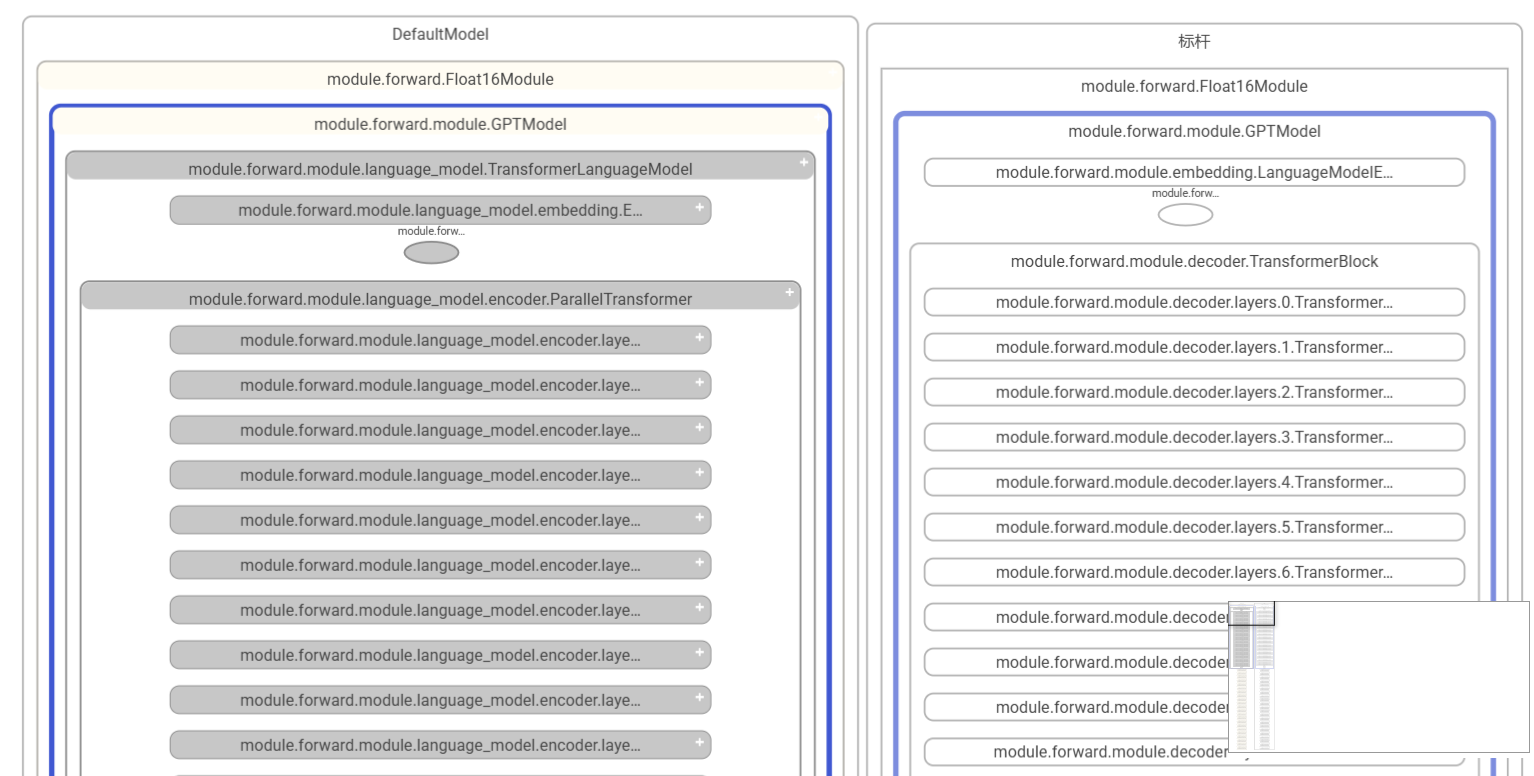
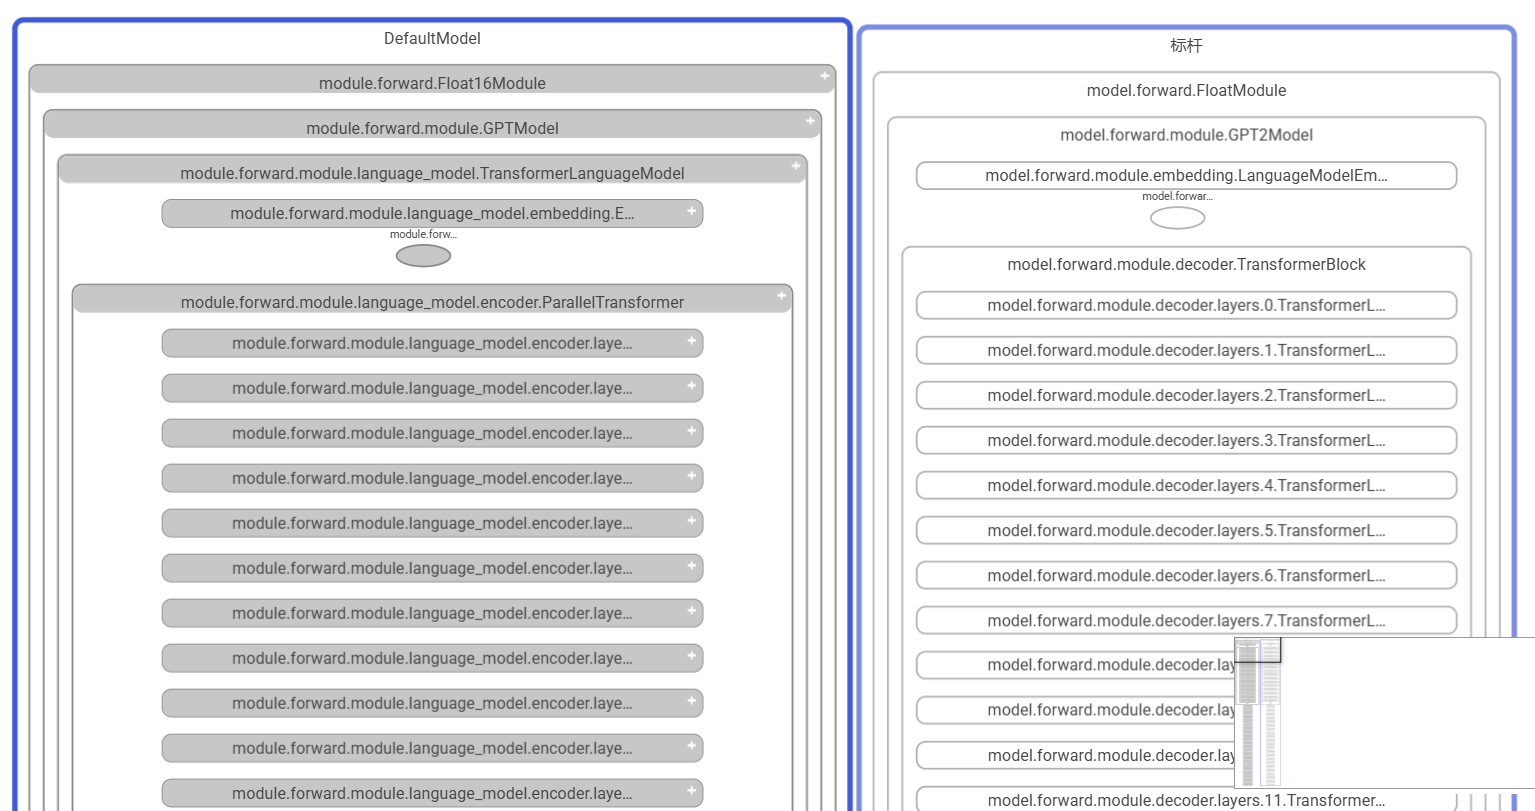
分级可视化layer mapping说明补充

diff --git a/debug/accuracy_tools/msprobe/docs/visualization/layer_mapping_example.md b/debug/accuracy_tools/msprobe/docs/visualization/layer_mapping_example.md
@@ -15,12 +15,16 @@
 
 **{Module}.{module_name}.{class_name}.{forward/backward}.{调用次数}**
 
+**layer mapping主要是针对module_name的映射**
+
+#### 2.1.1 命名示例
+
 - **Module.module.Float16Module.forward.0** -----> Module{**Module**}.module{**module_name**}.Float16Module{**class_name**}.forward.0{**调用次数**}
 - **Module.module.module.GPTModel.forward.0** -----> Module{**Module**}.module.module{**module_name**}.GPTModel{**class_name**}.forward.0{**调用次数**}
 - **Module.module.module.language_model.TransformerLanguageModel.forward.0** -----> Module{**Module**}.module.module.language_model{**module_name**}.TransformerLanguageModel{**class_name**}.forward.0{**调用次数**}
 - **Module.module.module.language_model.embedding.Embedding.forward.0** -----> Module{**Module**}.module.module.language_model.embedding{**module_name**}.Embedding{**class_name**}.forward.0{**调用次数**}
 
-可以看到，module_name随着模型层级的深入在变长，embedding层module_name拼接了它的上层language_model、上上层module和顶层module。
+可以看到，module_name随着模型层级的深入在变长，**embedding层module_name拼接了它的上层language_model、上上层module和顶层module**。
 
 ## 3.示例
 
@@ -36,18 +40,37 @@
 
 分析可知，节点匹配关系如下：
 
-| NPU节点名称           | GPU节点名称                                                          | 差异                                                   |
-|-------------------|------------------------------------------------------------------|------------------------------------------------------|
-| Module.module.module.language_model.TransformerLanguageModel.forward.0 | 无                                                                | NPU多了一层                                              |
+**注意，仅需关注module_name的差异**
+
+| NPU节点名称           | GPU节点名称                                                        | module_name差异                        |
+|-------------------|----------------------------------------------------------------|---------------------------|
+| Module.module.Float16Module.forward.0 | Module.model.FloatModule.forward.0                                 | NPU为module，GPU为model      |
+| Module.module.module.GPTModel.forward.0 | Module.model.module.GPT2Model.forward.0                            | NPU为module，GPU为module，无差异 |
+| Module.module.module.language_model.TransformerLanguageModel.forward.0 | 无                                                              | NPU多了一层                   |
 | Module.module.module.language_model.embedding.Embedding.forward.0 | Module.module.module.embedding.LanguageModelEmbedding.forward.0  | NPU为language_model.embedding，GPU为embedding           |
 | Module.module.module.language_model.rotary_pos_emb.RotaryEmbedding.forward.0 | Module.module.module.rotary_pos_emb.RotaryEmbedding.forward.0    | NPU为language_model.rotary_pos_emb，GPU为rotary_pos_emb |
 | Module.module.module.language_model.encoder.ParallelTransformer.forward.0 | Module.module.module.decoder.TransformerBlock.forward.0          | NPU为language_model.encoder，GPU为decoder               |
 | Module.module.module.language_model.encoder.layers.0.ParallelTransformerLayer.forward.0 | Module.module.module.decoder.layers.0.TransformerLayer.forward.0 | 父层级有差异，本层级NPU和GPU都叫layers，无差异                        |
 
 ### 3.2 构建layer_mapping配置文件
-准备一个命名为mapping.yaml文件
+准备一个命名为mapping.yaml文件，建立**module_name**的映射关系
 
-首先配置module.GPTModel下的子模块， **这里涉及到跨层级的配置，NPU多了一层language_model层**，将language_model作为embedding层、rotary_pos_emb层和encoder层的前缀，进行如下配置：
+#### 3.2.1 顶层模块映射
+NPU和GPU侧的模块Module.module.Float16Module.forward.0和Module.model.FloatModule.forward.0处于图的顶层，需要进行如下配置：
+
+![top_layer.png](./top_layer.png)
+
+```yaml
+TopLayer:
+  module: model
+```
+
+#### 3.2.2 其他模块映射
+配置module下的子模块，虽然两边的class_name不同（NPU侧为GPTModel，GPU侧为GPT2Model），**但是仅需取NPU侧也就是左边图的class_name进行配置，无需关心右边图的class_name叫什么**。
+
+**这里涉及到跨层级的配置，NPU多了一层language_model层**，将language_model作为embedding层、rotary_pos_emb层和encoder层的前缀，进行如下配置：
+
+![GPTModel.png](./GPTModel.png)
 
 ```yaml
 GPTModel:
@@ -86,9 +109,14 @@ msprobe -f mindspore graph -i ./compare.json -o ./output -lm ./mapping.yaml
 | Module.module.module.language_model.encoder.layers.0.mlp.dense_h_to_4h.ColumnParallelLinear.forward.0 | Module.module.module.decoder.layers.0.mlp.linear_fc1.TELayerNormColumnParallelLinear.forward.0      | NPU为dense_h_to_4h，GPU为linear_fc1            |
 | Module.module.module.language_model.encoder.layers.0.mlp.dense_4h_to_h.RowParallelLinear.forward.0 | Module.module.module.decoder.layers.0.mlp.linear_fc2.TERowParallelLinear.forward.0  | NPU为dense_4h_to_h，GPU为linear_fc2 |
 
+![ParallelMLP.png](./ParallelMLP.png)
+
 追加mapping.yaml配置：
 
 ```yaml
+TopLayer:
+  module: model
+
 GPTModel:
     language_model.embedding: embedding
     language_model.rotary_pos_emb: rotary_pos_emb
